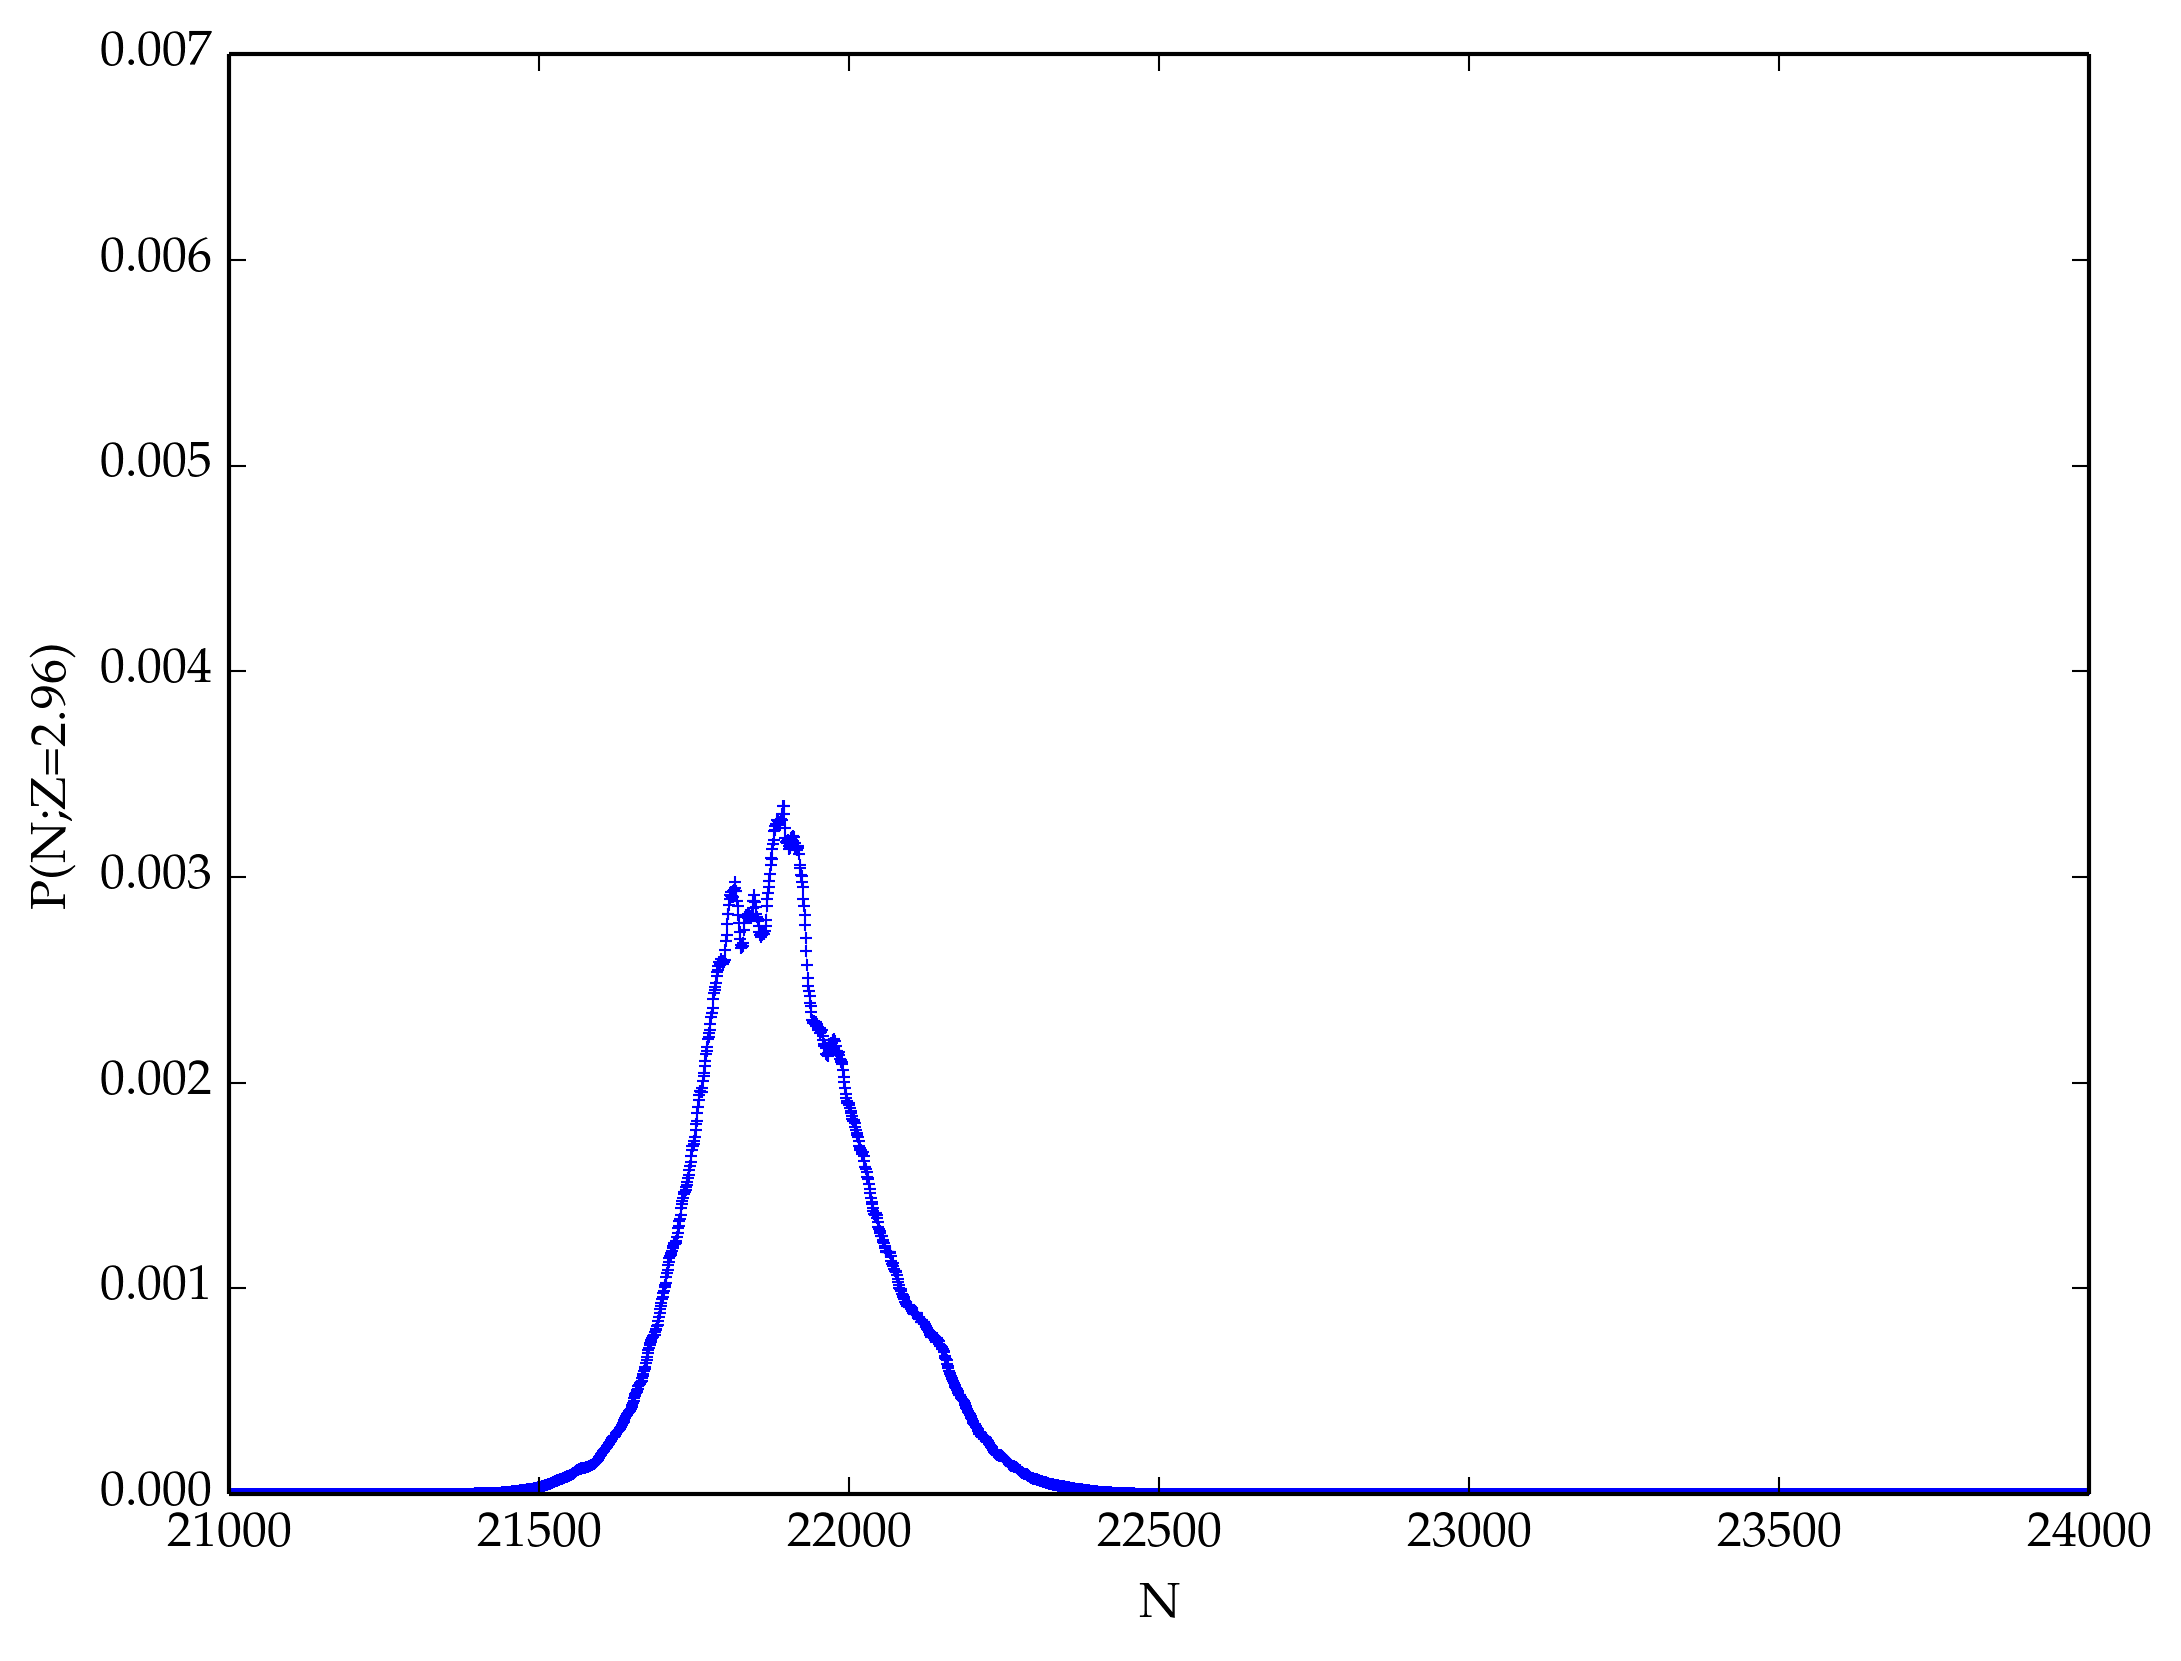
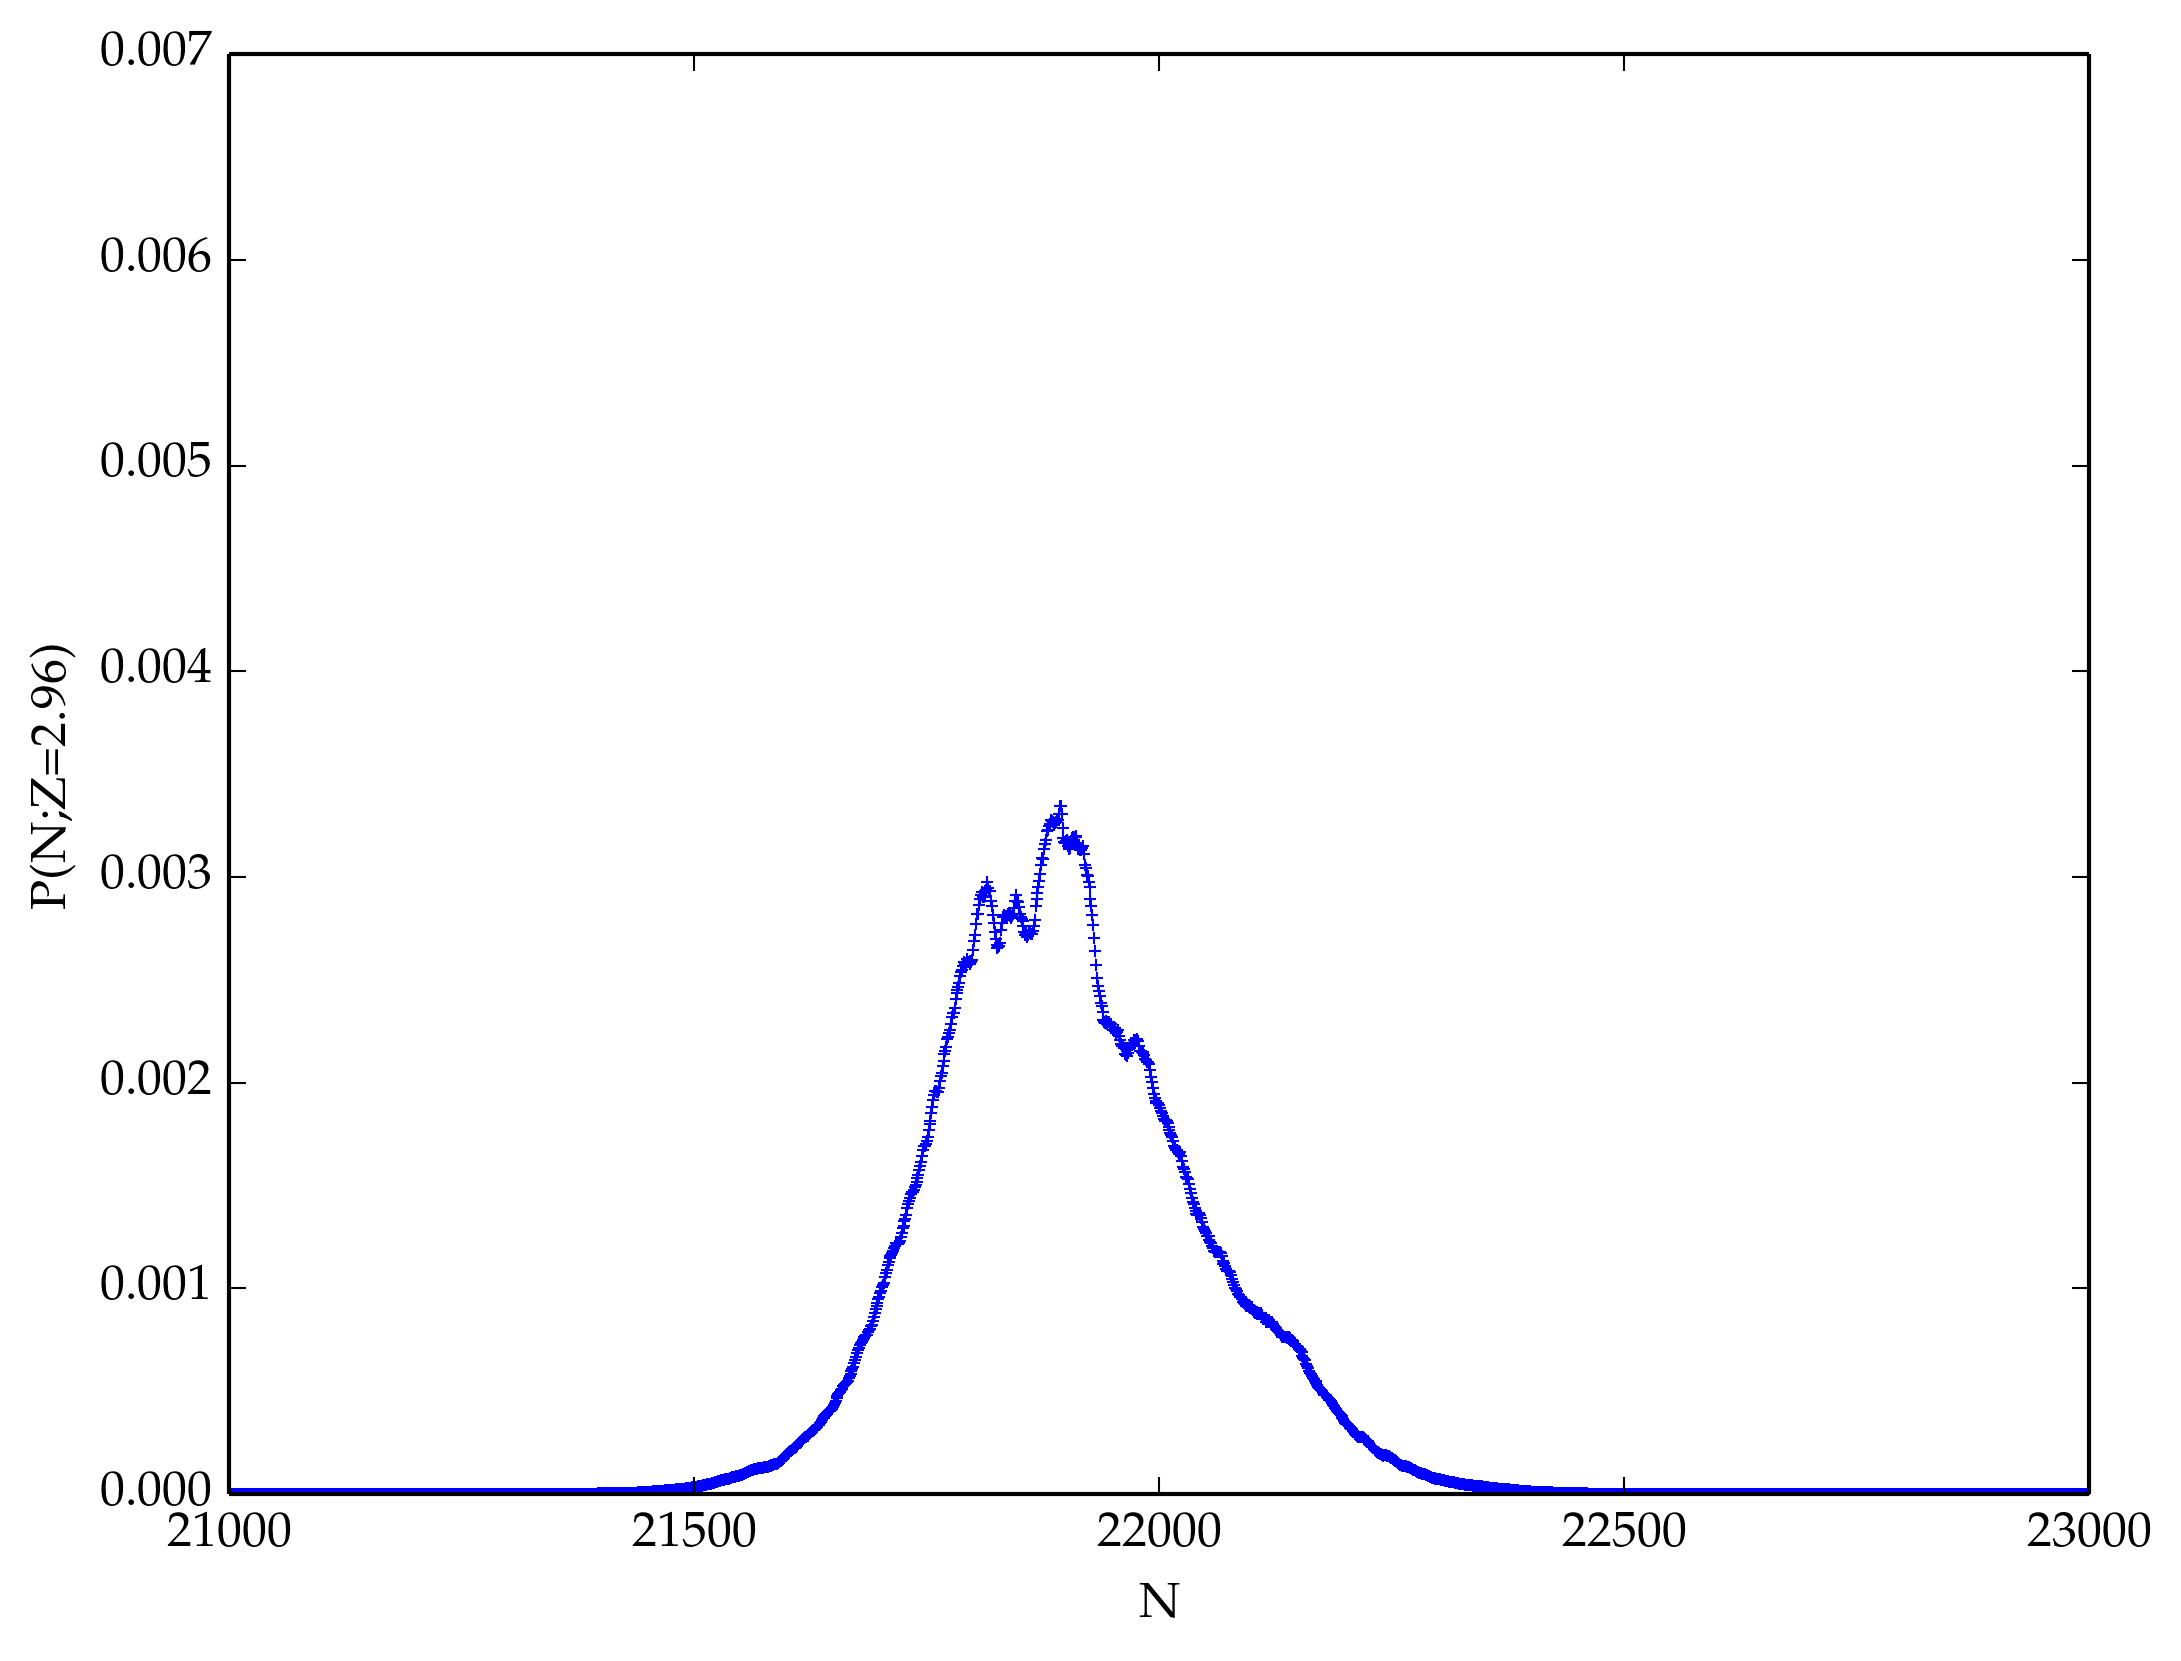
add data

diff --git a/DATA/12_64_64_64_1E7/analy_mod_.py b/DATA/12_64_64_64_1E7/analy_mod_.py
@@ -1,10 +1,11 @@
-# analy.py
+# analy_mod_.py
+# revised version
 # A python program to analyze the SUS weighting function in order to reach the following goals:
 # 1. plot the weight function
 # 2. generate the normalized distribution for Z=1
 # 3. extrapolate the N distribution for different Zs given by the user.
 # Author: Yuding Ai
-# Date: 2015 Oct 23
+# Date: 2015 Nov 11
 
 import math
 import numpy as np
@@ -49,8 +50,8 @@ def Pplot(PN,z):
 def enlargePplot(PN,z):
 	fig = plt.figure()	
 	plt.plot(PN,'+b-',markersize=3,linewidth = 0.1)
-	plt.xlim(21000,23000)
-	plt.ylim(0,0.007)
+	# plt.xlim(6400,7400)
+	# plt.ylim(0,0.007)
 	Z = str(z)
 	ylabel = 'P(N;Z='+ Z + ')'
 	plt.ylabel(ylabel)
@@ -69,14 +70,19 @@ def Wplot(WN):
 
 def exploPN(W,z):
 	P = [] # a list of number distribution
-	for i in range(len(W)):
-		W[i] = W[i] + i*math.log(z)
+	WF = list(W)
+	for i in range(len(WF)):
+		WF[i] = WF[i] + i*math.log(z)
 
-	maxi = max(W)
+	maxi = max(WF)
 	if maxi > 500:
 		for j in range(len(W)):
-			W[j] = W[j]-maxi +500
-			P.append(math.exp(W[j]));
+			WF[j] = WF[j]-maxi +500
+			P.append(math.exp(WF[j]));
+	# else:
+	# 	for j in range(len(W)):
+	# 		P.append(math.exp(WF[j]));
+
 	P = [float(k)/sum(P) for k in P]
 	return P
 
@@ -89,14 +95,13 @@ def main():
 
 	# Wplot(W)
 	# Pplot(P,1)
-	Pe = exploPN(W,2.96)
-	enlargePplot(Pe,2.96)
+	# Pe = exploPN(W,3.08)
+	# enlargePplot(Pe,3.08)
 
-	# for i in range(10):
-	# 	W = PN()[0] # take the original weighting function 		
-	# 	t = 2.93 + 0.02*i
-	# 	Pe = exploPN(W,t)
-	# 	# Pplot(Pe,t)
-	# 	enlargePplot(Pe,t)
+	for i in range(10):
+		t = 1.63 + 0.02*i
+		Pe = exploPN(W,t)
+		# Pplot(Pe,t)
+		enlargePplot(Pe,t)
 
 main()

diff --git a/DATA/12_96_96_96_1E7/analy_mod_.py b/DATA/12_96_96_96_1E7/analy_mod_.py
@@ -49,8 +49,8 @@ def Pplot(PN,z):
 def enlargePplot(PN,z):
 	fig = plt.figure()	
 	plt.plot(PN,'+b-',markersize=3,linewidth = 0.1)
-	plt.xlim(21000,23000)
-	plt.ylim(0,0.007)
+	# plt.xlim(6400,7400)
+	# plt.ylim(0,0.007)
 	Z = str(z)
 	ylabel = 'P(N;Z='+ Z + ')'
 	plt.ylabel(ylabel)
@@ -69,14 +69,19 @@ def Wplot(WN):
 
 def exploPN(W,z):
 	P = [] # a list of number distribution
-	for i in range(len(W)):
-		W[i] = W[i] + i*math.log(z)
+	WF = list(W)
+	for i in range(len(WF)):
+		WF[i] = WF[i] + i*math.log(z)
 
-	maxi = max(W)
+	maxi = max(WF)
 	if maxi > 500:
 		for j in range(len(W)):
-			W[j] = W[j]-maxi +500
-			P.append(math.exp(W[j]));
+			WF[j] = WF[j]-maxi +500
+			P.append(math.exp(WF[j]));
+	# else:
+	# 	for j in range(len(W)):
+	# 		P.append(math.exp(WF[j]));
+
 	P = [float(k)/sum(P) for k in P]
 	return P
 
@@ -87,16 +92,15 @@ def main():
 	P = PN()[1] # take the P(N;z=1)
 	W = PN()[0] # take the original weighting function 
 
-	# Wplot(W)
-	# Pplot(P,1)
-	Pe = exploPN(W,2.96)
-	enlargePplot(Pe,2.96)
+	Wplot(W)
+	Pplot(P,1)
+	# Pe = exploPN(W,3.08)
+	# enlargePplot(Pe,3.08)
 
-	# for i in range(10):
-	# 	W = PN()[0] # take the original weighting function 		
-	# 	t = 2.93 + 0.02*i
-	# 	Pe = exploPN(W,t)
-	# 	# Pplot(Pe,t)
-	# 	enlargePplot(Pe,t)
+	for i in range(10):
+		t = 2.03 + 0.02*i
+		Pe = exploPN(W,t)
+		# Pplot(Pe,t)
+		enlargePplot(Pe,t)
 
 main()
